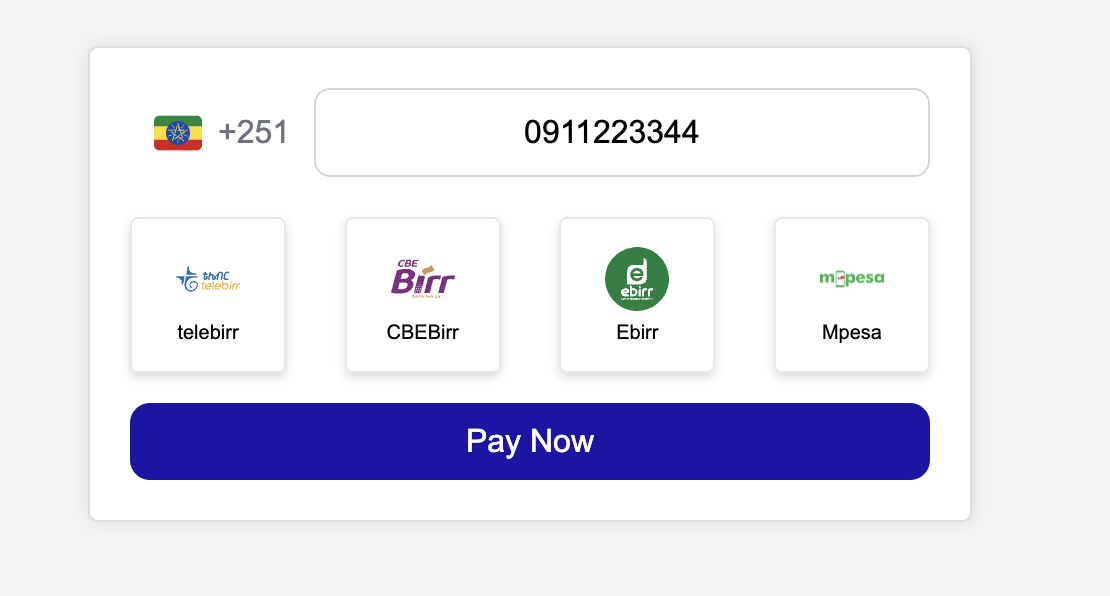
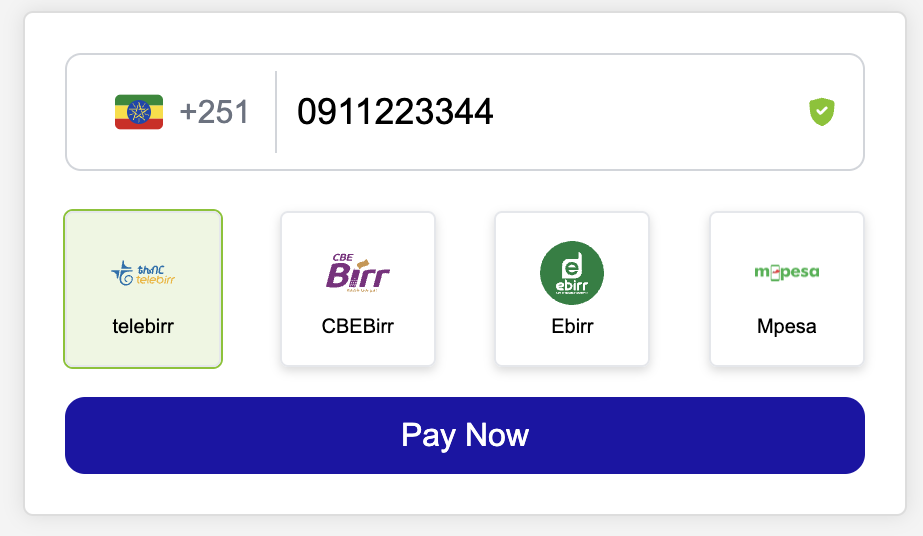
fix: change pictures and change inline

diff --git a/lib/inline.js b/lib/inline.js
@@ -66,8 +66,8 @@ class ChapaCheckout {
       }
   
       container.innerHTML = `
-              <div id="chapa-error-container" class="chapa-error"></div>
               <div id="chapa-phone-input-container"></div>
+              <div id="chapa-error-container" class="chapa-error"></div>
               <div id="chapa-payment-methods"></div>
               <button id="chapa-pay-button" type="submit"></button>
               <div id="chapa-loading-container" class="chapa-loading">
@@ -133,7 +133,7 @@ class ChapaCheckout {
       phoneInput.id = "chapa-phone-number";
       phoneInput.className = "chapa-phone-input";
       phoneInput.type = "tel";
-      phoneInput.placeholder = "9XXXXXXXX";
+      phoneInput.placeholder = "9|7XXXXXXXX";
       phoneInput.value = this.options.mobile;
       phoneInput.addEventListener("input", (e) => this.validatePhoneNumberOnInput(e));
       phoneWrapper.appendChild(phoneInput);
@@ -215,11 +215,11 @@ class ChapaCheckout {
         const style = document.createElement("style");
         style.id = "chapa-styles";
         style.textContent = `
-                  .chapa-error { display: none; color: red; margin-bottom: 10px; }
+                  .chapa-error { display: none; color: red; margin-bottom: 10px; margin-top: 10px; }
                   .chapa-loading { display: none; text-align: center; margin-top: 15px; }
                   .chapa-spinner { display: inline-block; width: 30px; height: 30px; border: 3px solid rgba(0,0,0,.1); border-radius: 50%; border-top-color: #7DC400; animation: chapa-spin 1s ease-in-out infinite; }
                   @keyframes chapa-spin { to { transform: rotate(360deg); } }
-                  .chapa-payment-methods-grid { display: flex; gap: 8px; margin: 15px 0; }
+                  .chapa-payment-methods-grid { display: flex;  gap: 8px; margin: 15px 0; justify-content:  space-between; }
                   .chapa-payment-method { display: flex; flex-direction: column; align-items: center; justify-content: center; padding: 8px; border: 1px solid #e5e7eb; border-radius: 4px; cursor: pointer; width: 60px; height: 60px; box-shadow: 0 2px 5px rgba(0, 0, 0, 0.15); }
                   .chapa-payment-icon { width: 42px; height: 42px; margin-bottom: 4px; }
                   .chapa-payment-name { font-size: 11px; text-align: center; }
